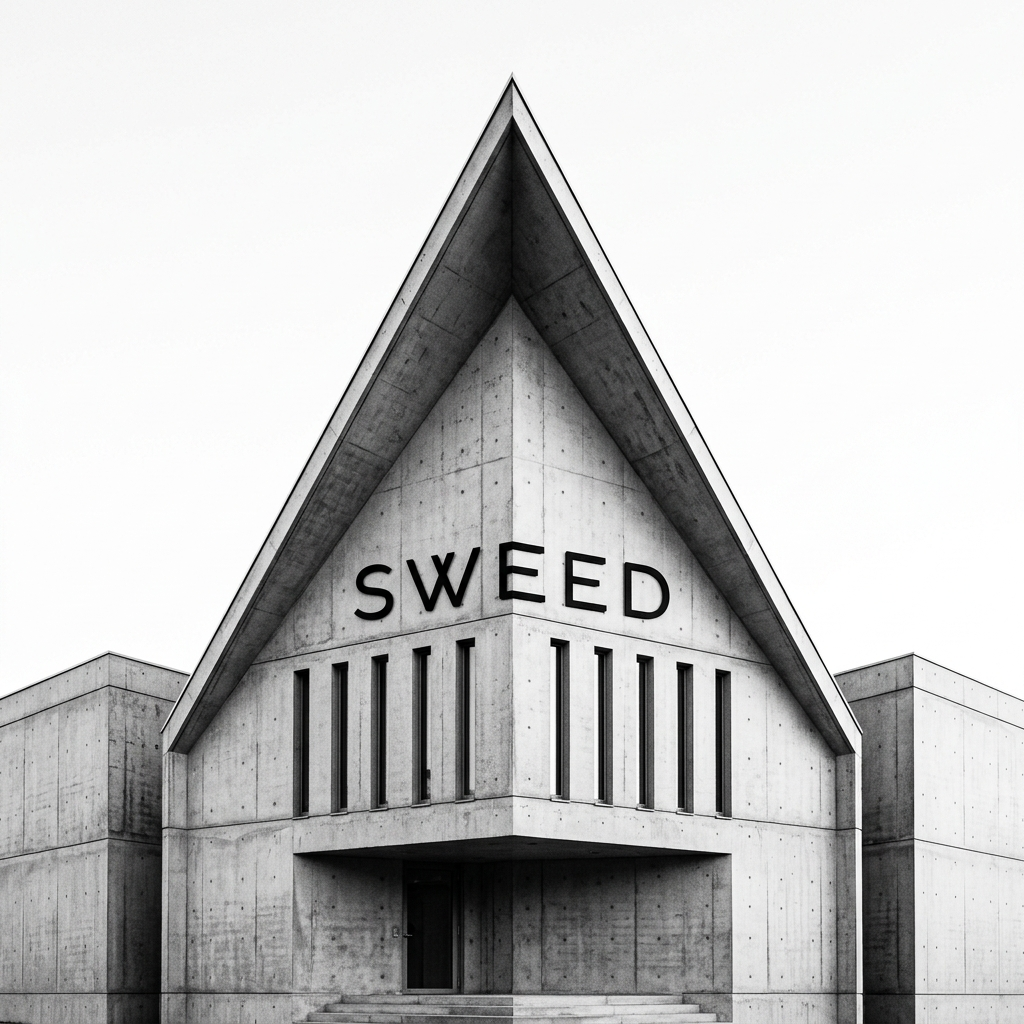
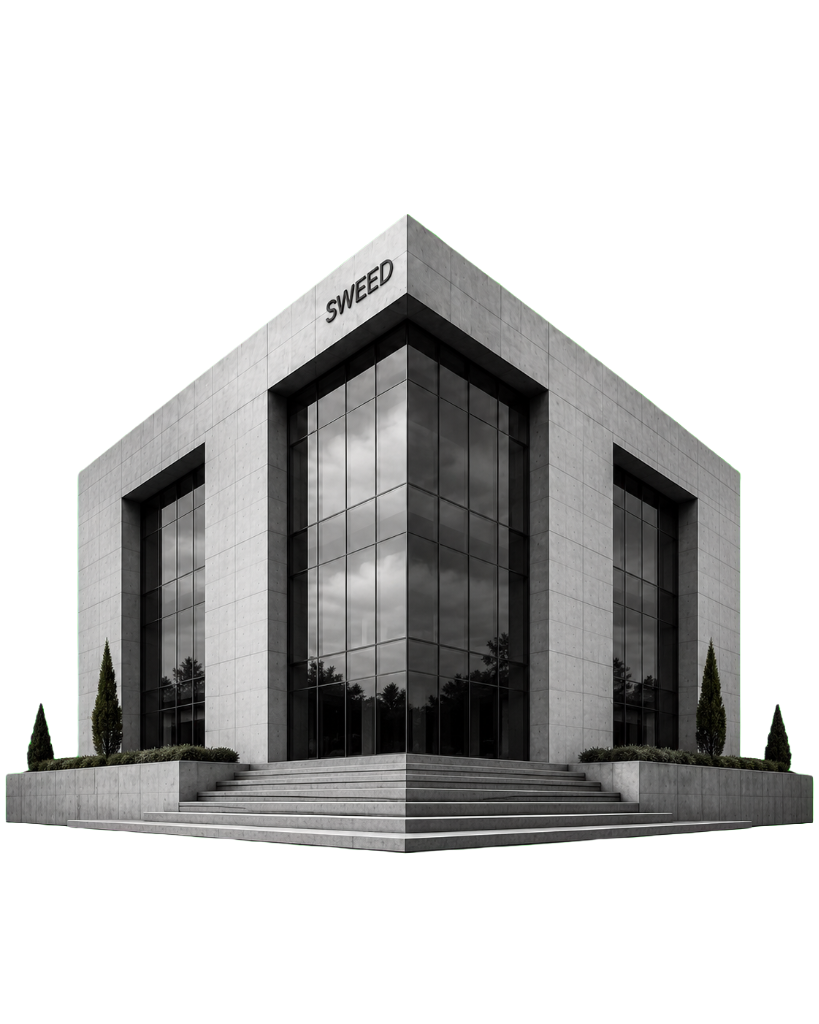
feat: replace hero building mockup with high quality version and make hero headline font thinner

diff --git a/apps/web/src/app/layout.tsx b/apps/web/src/app/layout.tsx
@@ -4,7 +4,7 @@ import "./globals.css";
 
 const cairo = Cairo({
   subsets: ["arabic", "latin"],
-  weight: ["400", "500", "700", "800", "900"],
+  weight: ["200", "300", "400", "500", "700", "800", "900"],
   variable: "--font-cairo",
   display: "swap",
 });

diff --git a/apps/web/src/features/homepage/home-public-page.module.css b/apps/web/src/features/homepage/home-public-page.module.css
@@ -141,7 +141,7 @@
   max-width: 960px;
   margin: 0 auto 2.2rem;
   font-size: clamp(3.2rem, 6.5vw, 6.2rem);
-  font-weight: 900;
+  font-weight: 300;
   line-height: 1.05;
   letter-spacing: -0.03em;
   color: #1a1a1a;
